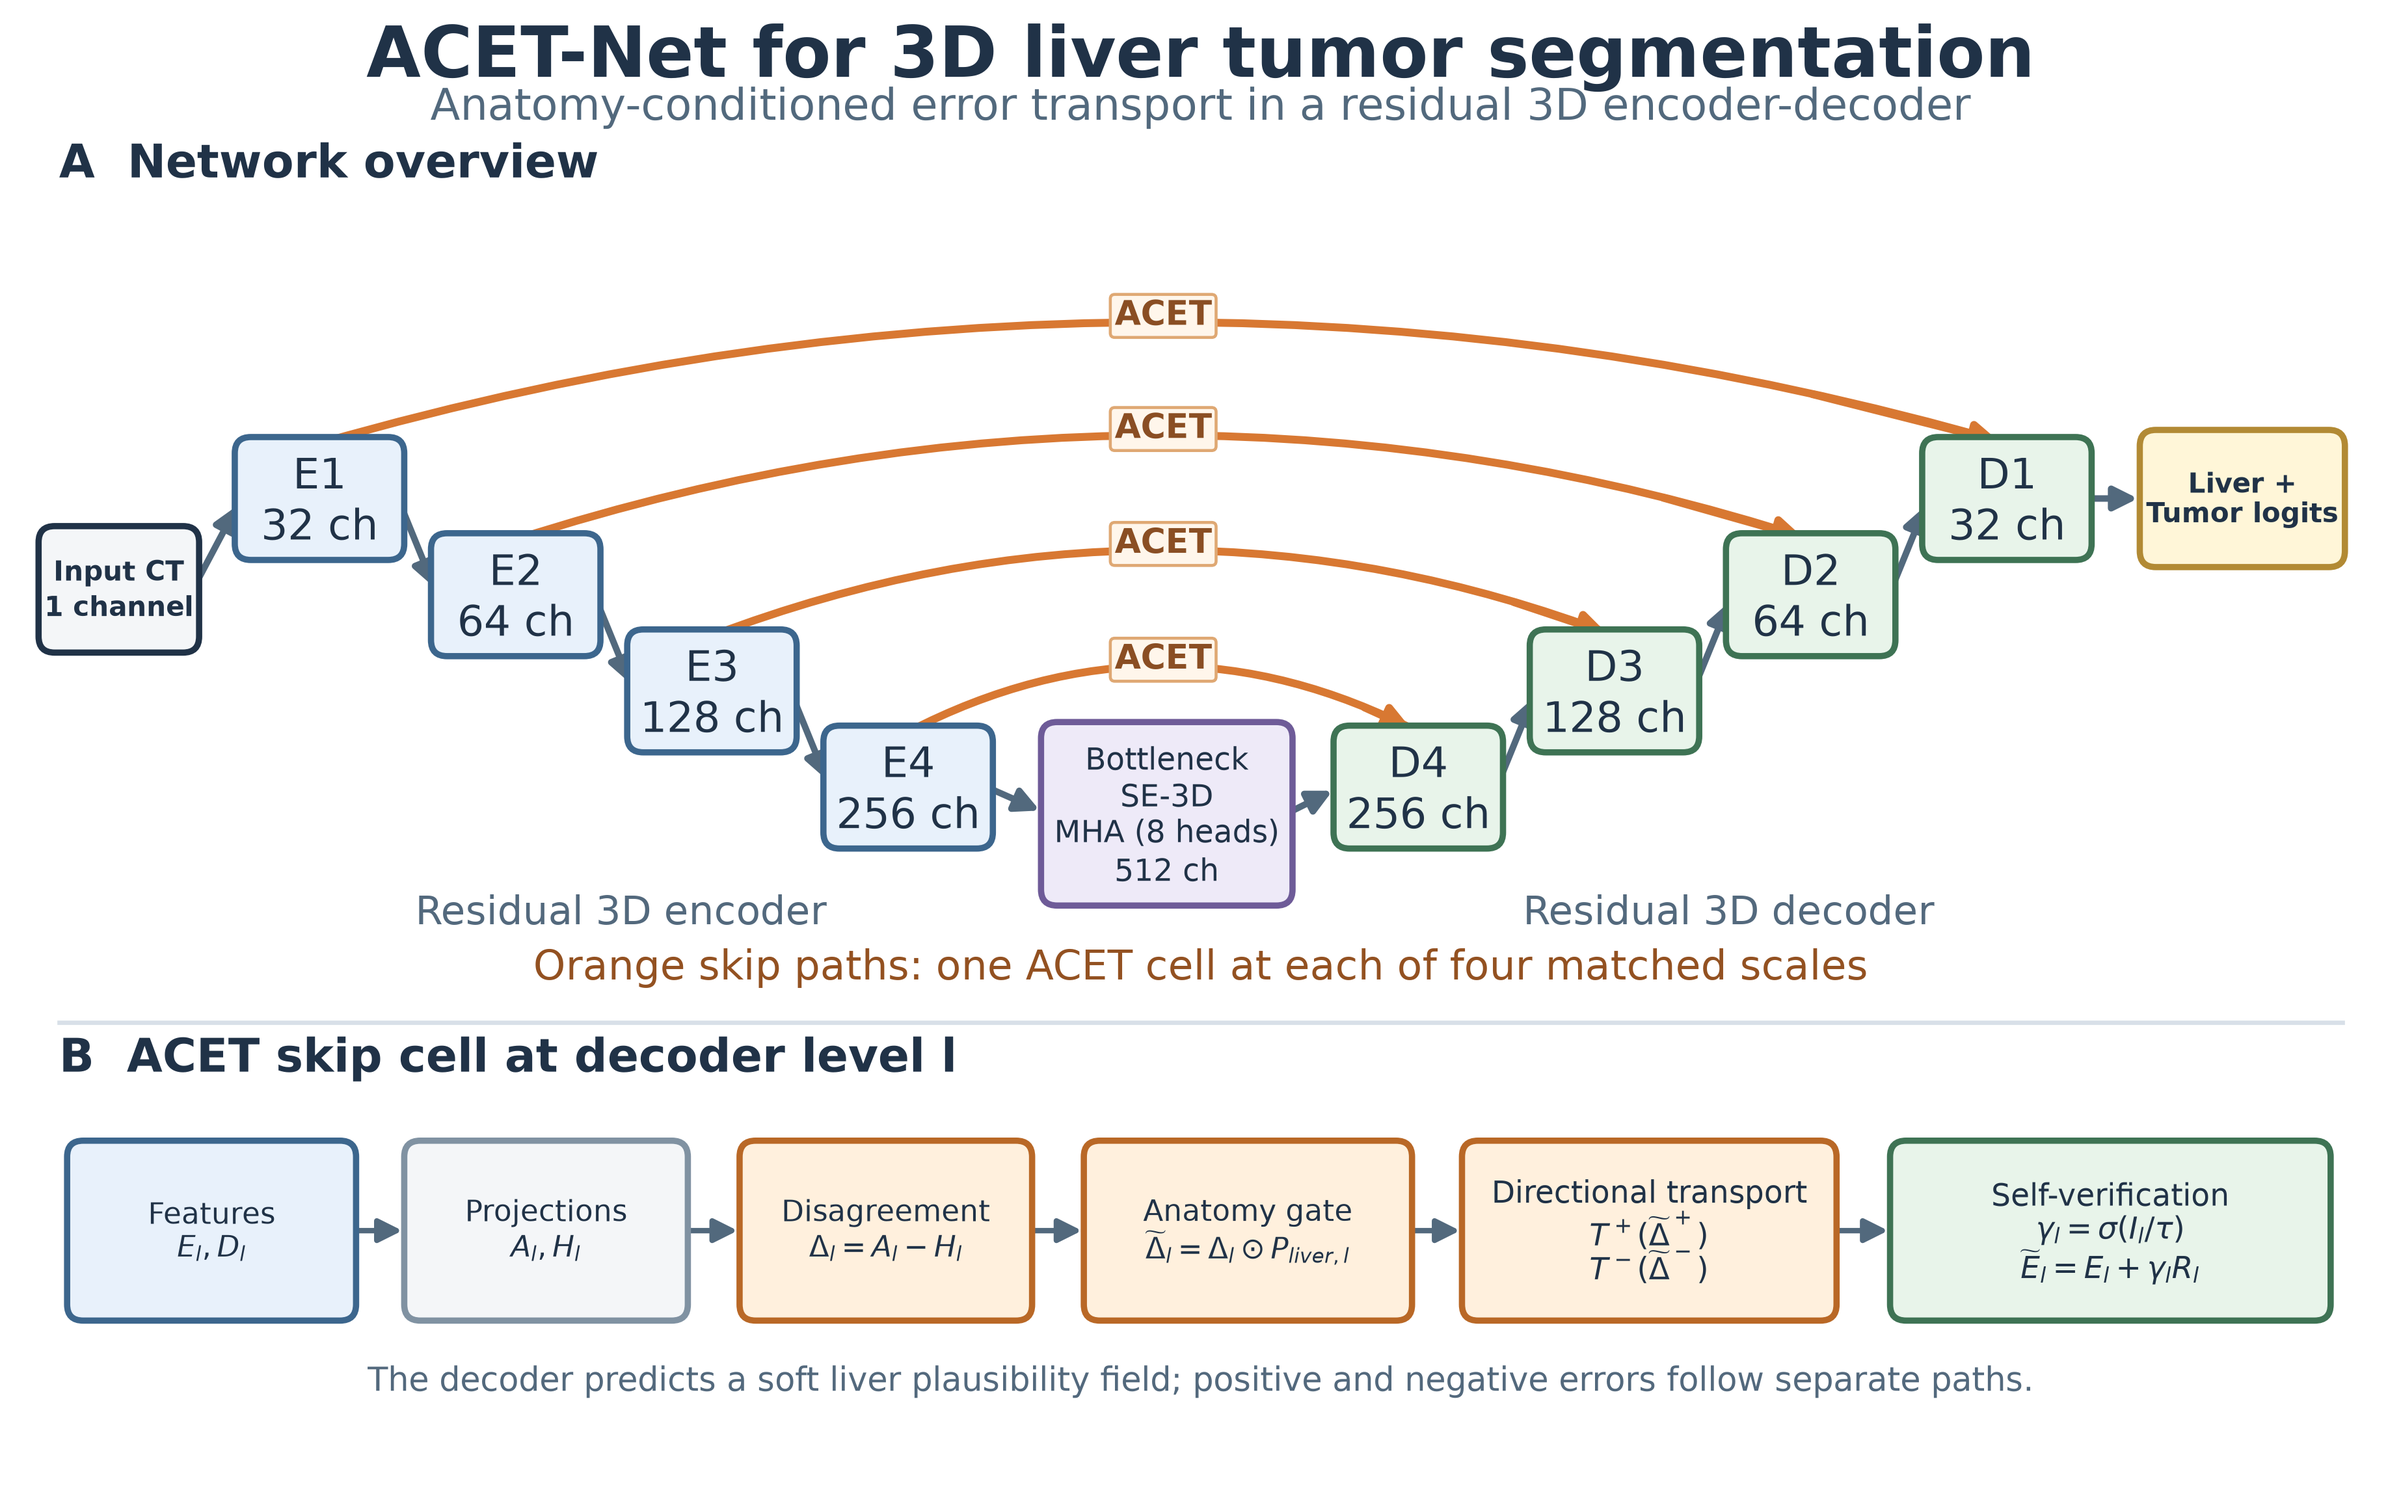
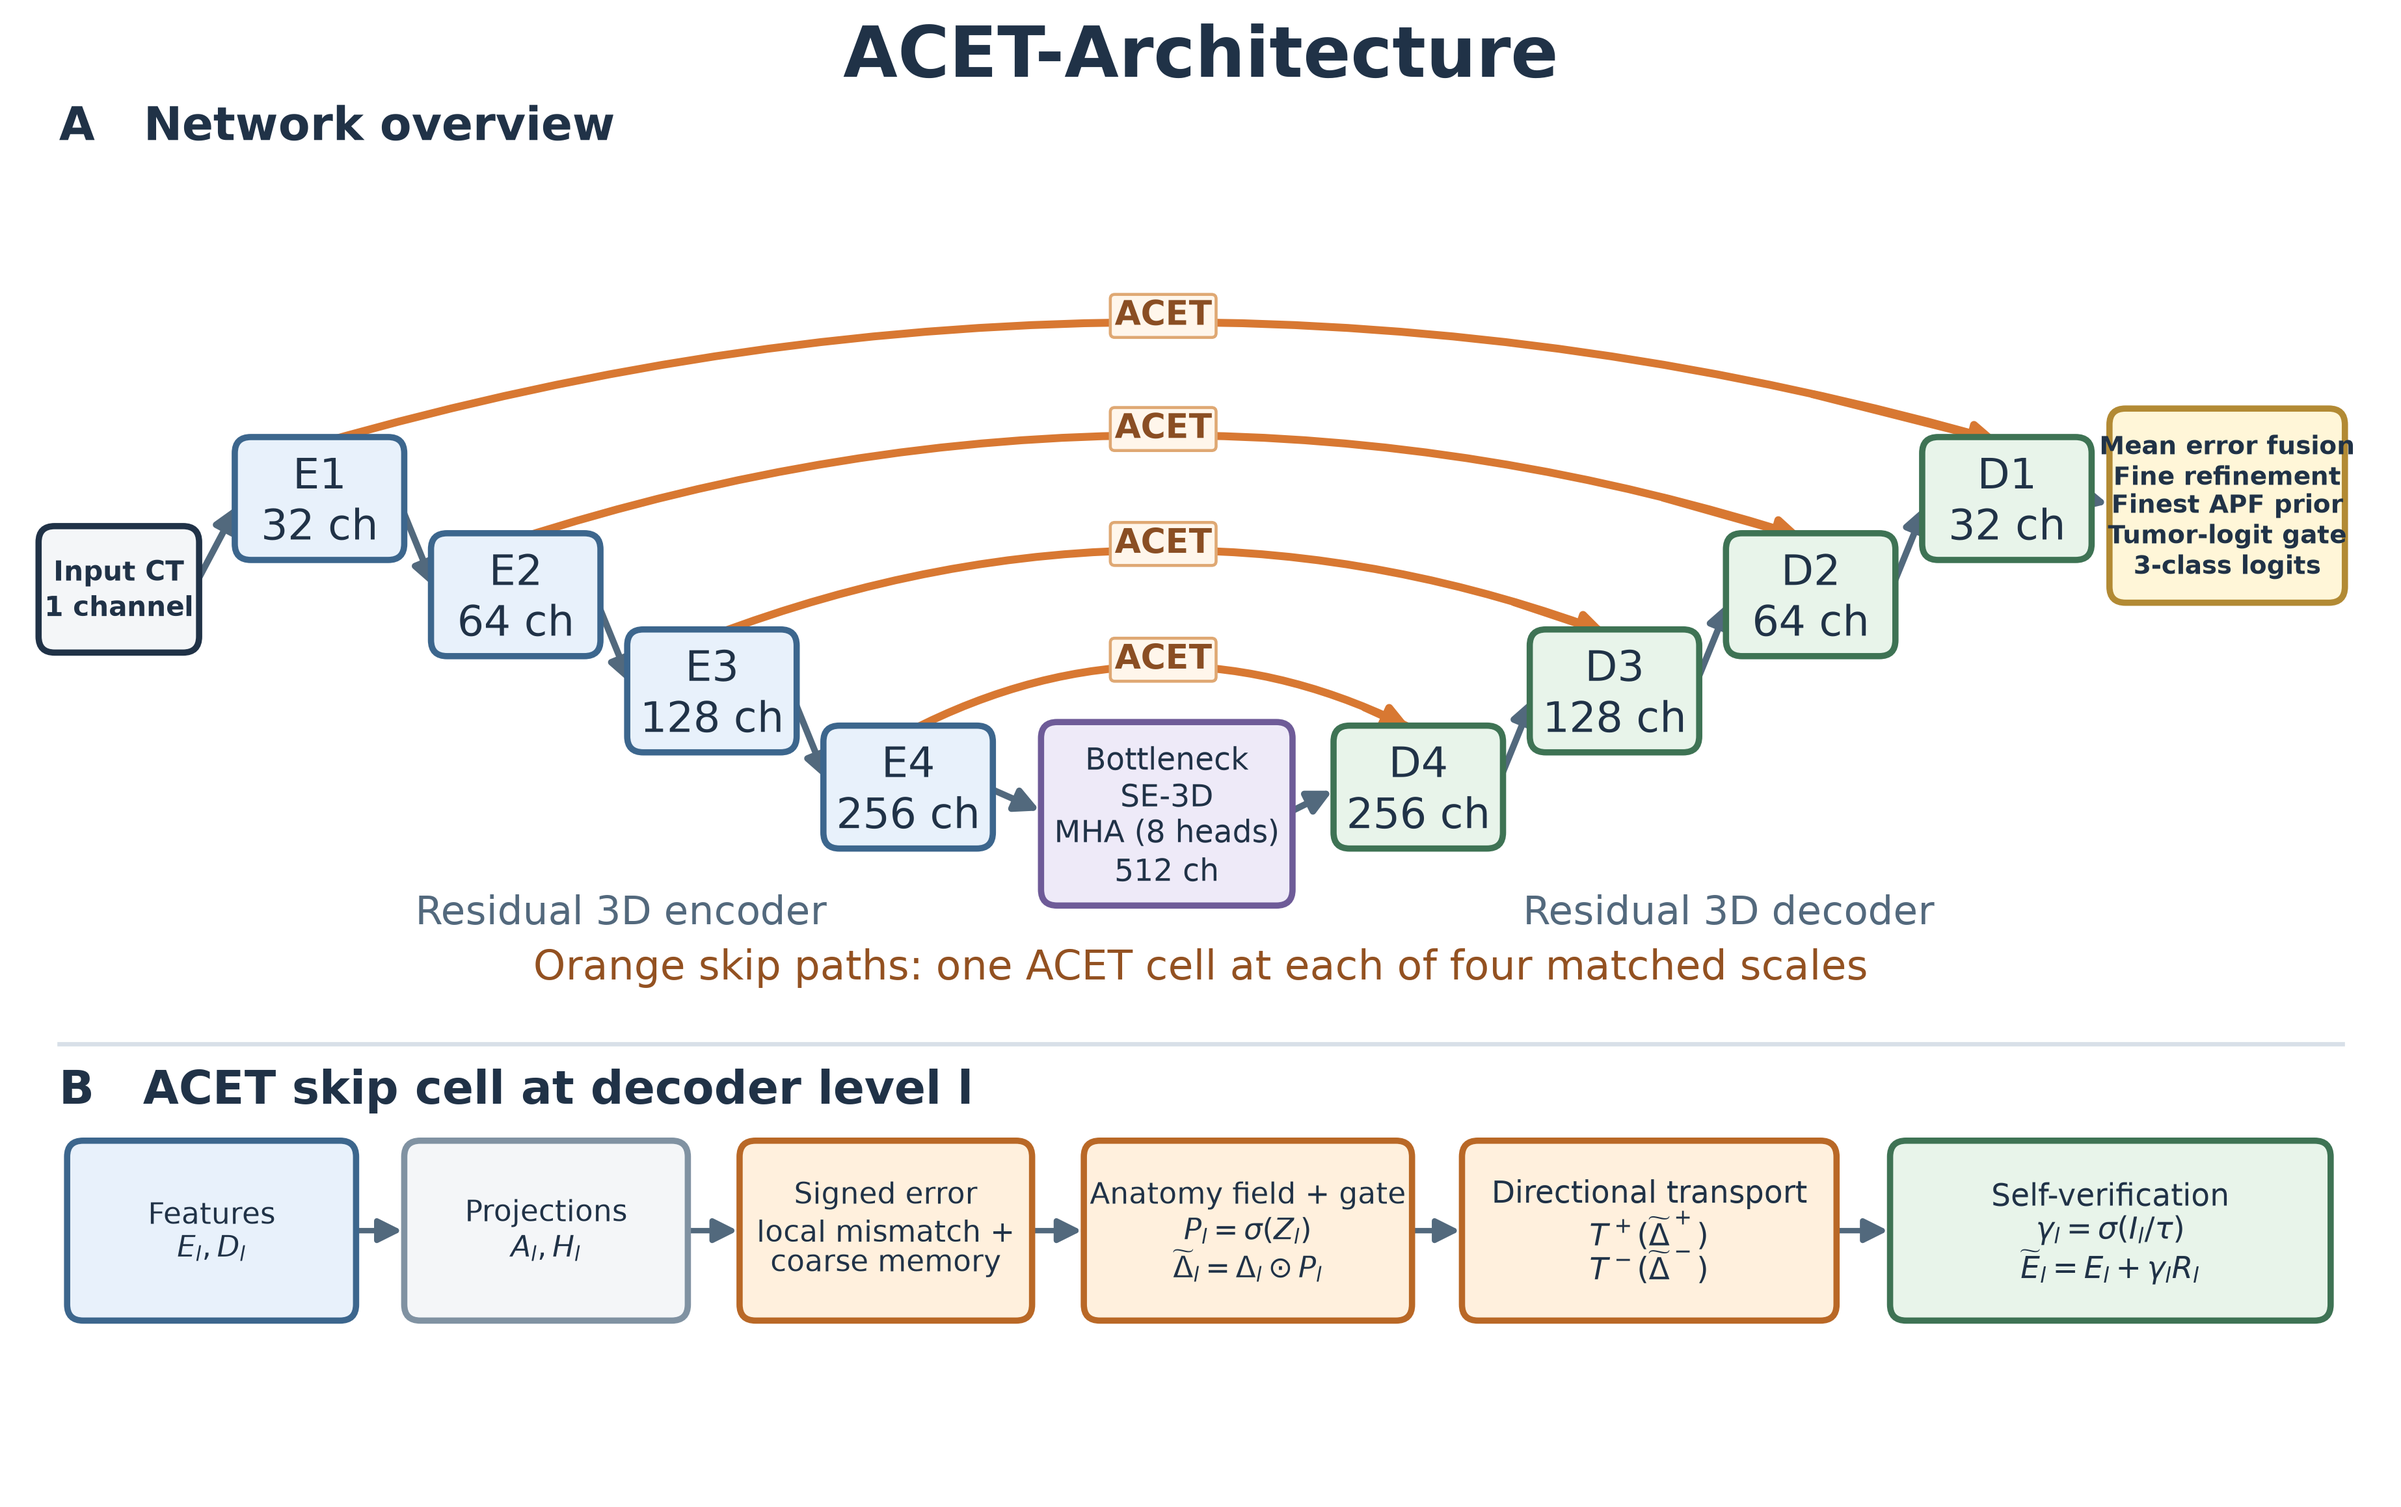
Replace repeated README figure with paper figures

diff --git a/README.md b/README.md
@@ -23,7 +23,7 @@ At each decoder scale, ACET compares sigmoid-projected encoder evidence with the
 
 The model uses a 3D residual encoder-decoder with SE and transformer context at the bottleneck, multi-scale supervision, and overlapping-patch volume inference with Gaussian blending. The implementation also provides `unet` and `cers` architecture choices for comparison; their checkpoints are not included in this compact release.
 
-![Qualitative predictions](assets/prediction_comparison.png)
+![ACET-Net qualitative predictions across small, medium, and large held-out lesions](assets/heldout_qualitative_predictions.png)
 
 ## Data and evaluation protocol
 
@@ -50,7 +50,7 @@ The included summary reports four-view in-plane flip test-time augmentation (TTA
 
 These are results from one seed and one held-out split. They are not a multi-seed estimate, and comparisons to other papers are not claimed unless preprocessing, split, inference, and metric definitions are matched. For definitions and complete aggregate values, see `results/lits_test_summary.json`.
 
-![Example predictions on held-out cases](assets/prediction_comparison.png)
+![Matched LiTS test results with four-view TTA](assets/matched_lits_test_results.png)
 
 ## Additional experiment results
 
@@ -116,4 +116,3 @@ If you use this code, please cite the associated project/paper once a formal bib
 ## License
 
 No license is included yet. Unless a license is added by the repository owner, standard copyright applies and reuse permissions are not granted. LiTS and 3DIRCADb data are not redistributed here and remain subject to their respective terms.
-
